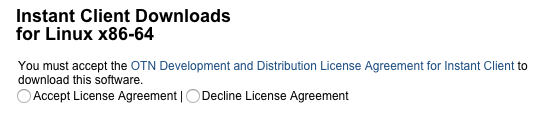
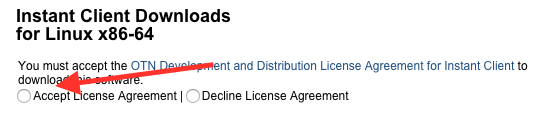
fixing images on php-nginx article

Changed region(s): [[0.0886, 0.458, 0.4133, 0.7328]]

diff --git a/source/_posts/Installing-Nginx-PHP-and-PHP-FPM-from-source.md b/source/_posts/Installing-Nginx-PHP-and-PHP-FPM-from-source.md
@@ -54,7 +54,7 @@ If you want to work with Oracle + PHP, you need to install the instant client fo
 
 5. Download the sdk version:
 
-![Instant Client](/images/Installing-Nginx-and-PHP-from-source-5.png)
+![Instant Client](/images/Installing-Nginx-and-PHP-from-source-4.png)
 
 After that, you should upload these files to your server.
 
